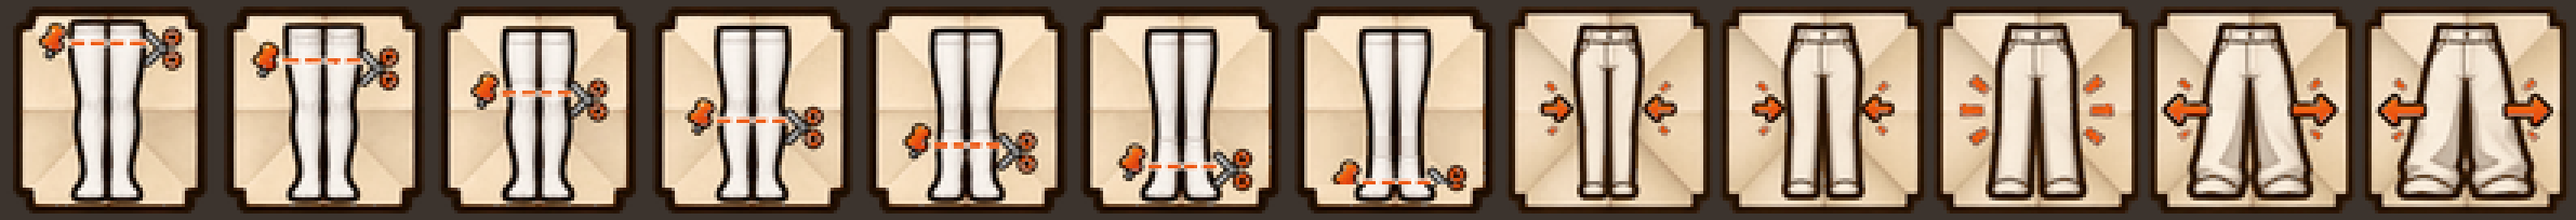
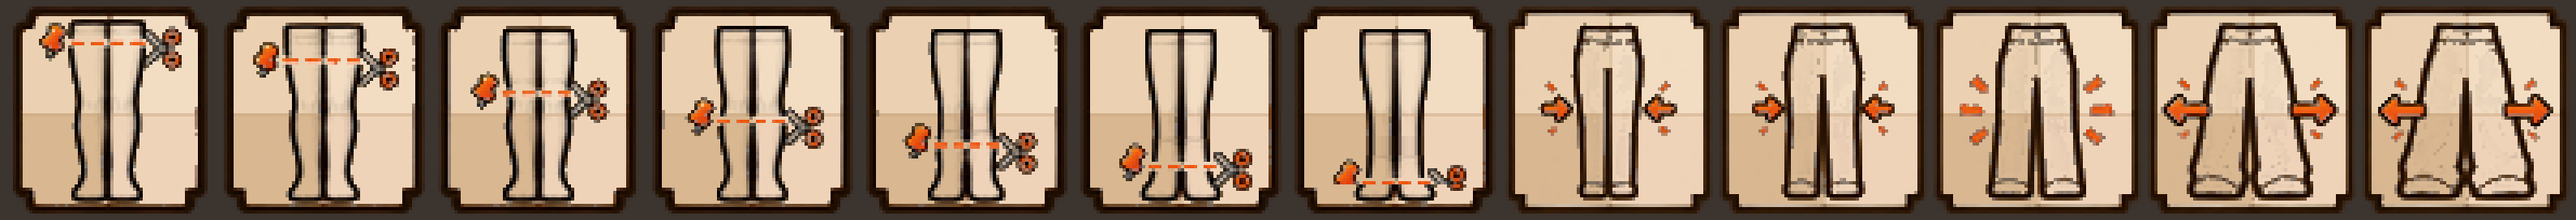
Íconos de rango y calce: papel doblado de cuatro zonas como los de corte de cuello
Claude-Session: https://claude.ai/code/session_014VeQUjMv7G1rcVBXsxCHBx

diff --git a/tools/ajustar_iconos_medias_pantalon.py b/tools/ajustar_iconos_medias_pantalon.py
@@ -8,6 +8,7 @@ Uso: python tools/ajustar_iconos_medias_pantalon.py            # vista previa en
 """
 import colorsys
 import os
+from collections import deque
 import shutil
 import sys
 
@@ -44,6 +45,47 @@ def entonar(img):
     return Image.fromarray(out.clip(0, 255).astype(np.uint8), "RGBA")
 
 
+# Papel doblado de los íconos de corte de cuello (2026-10-05, "el estilo con respecto al fondo y las cuatro areas
+# iluminadas que lo hacen parecer un papel doblado"): cuatro cuadrantes planos con distinta luz y dos pliegues en cruz.
+CUADRANTES = {(0, 0): (236, 210, 178), (1, 0): (243, 221, 195), (0, 1): (217, 184, 146), (1, 1): (240, 212, 186)}
+PLIEGUE = np.array([204, 170, 130])
+
+
+def cuadrante(x, y):
+    return CUADRANTES[(1 if x >= 32 else 0, 1 if y >= 33 else 0)]
+
+
+def papel_doblado(img, ref=None):
+    """Cambia el papel del fondo por los cuatro cuadrantes (y entona la tela con la misma luz)."""
+    a = np.array(img.convert("RGBA"))
+    rgb = a[..., :3].astype(int)
+    lum = rgb.sum(axis=2) / 3
+    # la clasificación mira el recorte original (antes de bajar la saturación): papel = tostado, tela = casi blanca
+    o = np.array((ref or img).convert("RGB")).astype(int)
+    nar = (o[..., 0] - o[..., 2] > 150) & (o[..., 1] < 160)
+    oscuro = (o.sum(axis=2) / 3) < 120
+    barrera = oscuro | nar
+    visto = (o[..., 0] - o[..., 2] > 62) & ~barrera
+    # el marco: franja de 3 px alrededor; ahí no se toca
+    marco = np.ones((64, 64), bool)
+    marco[3:61, 3:61] = False
+    out = a.copy()
+    for y in range(64):
+        for x in range(64):
+            if marco[y, x] or a[y, x, 3] < 8 or barrera[y, x]:
+                continue
+            base = np.array(cuadrante(x, y), float)
+            if visto[y, x]:
+                out[y, x, :3] = base
+            else:                                            # tela: conserva su sombreado sobre el color del cuadrante
+                out[y, x, :3] = np.clip(base * min(1.0, lum[y, x] / 236) * 1.0, 0, 255)
+    for x in range(3, 61):                                   # pliegues en cruz, sin pisar contornos ni naranja
+        for (px, py) in ((x, 33), (32, x)):
+            if not barrera[py, px] and not marco[py, px] and a[py, px, 3] >= 8:
+                out[py, px, :3] = (out[py, px, :3] * 0.55 + PLIEGUE * 0.45)
+    return Image.fromarray(out.clip(0, 255).astype(np.uint8), "RGBA")
+
+
 def fila_linea(img):
     a = np.array(img.convert("RGB")).astype(int)
     nar = (a[..., 0] - a[..., 2] > 170) & (a[..., 1] < 140) & (a[..., 0] > 200)
@@ -68,9 +110,12 @@ def maximo_desde(sexto, baja):
 
 
 def main():
-    rangos = [entonar(Image.open(os.path.join(ORIGEN, f"rango_medias_{i}.png"))) for i in range(6)]
+    def listo(ruta):
+        original = Image.open(ruta)
+        return papel_doblado(entonar(original), original)
+    rangos = [listo(os.path.join(ORIGEN, f"rango_medias_{i}.png")) for i in range(6)]
     rangos.append(maximo_desde(rangos[5], 5))
-    calces = [entonar(Image.open(os.path.join(ORIGEN, f"calce_pantalon_{i}.png"))) for i in range(5)]
+    calces = [listo(os.path.join(ORIGEN, f"calce_pantalon_{i}.png")) for i in range(5)]
     E = 4
     todos = rangos + calces
     hoja = Image.new("RGB", (len(todos) * (64 * E + 8) + 8, 64 * E + 16), (60, 52, 46))

diff --git a/CLAUDE.md b/CLAUDE.md
@@ -122,7 +122,7 @@ La descripción completa de mecánicas, comandos y recetas está en [docs/manual
 
 **Íconos del calce** (2026-10-04, "El calce"): los 5 `molde_calce_{pegado,ajustado,normal,suelto,oversize}.png` son de la imagen del usuario (remera con flechas hacia adentro/afuera; recortados a 64x64 con LANCZOS, originales en `assets_nuevos_prueba/calce/`; los anteriores en `assets_viejos/molde_calce_2026-10-04/`). El orden va de más pegado a más holgado, como el enum `Calce`.
 
-**Íconos de rango y calce nuevos** (2026-10-05, "nuevos iconos para calce y rango... que se vean mas como los de remera" → "que reemplacen, los de remera que me gustan son los de corte de cuello"): `molde_rango_*` ahora son medias con línea de corte (6 del usuario + el séptimo, máximo, armado bajando la línea del sexto) y `molde_calce_*` pantalones con flechas, entonados al estilo de los íconos de corte de cuello por `tools/ajustar_iconos_medias_pantalon.py` (originales recortados en `assets_nuevos_prueba/medias_pantalon/`, los reemplazados en `assets_viejos/iconos_medias_pantalon_2026-10-05/`). Nombres de rango corregidos: CERO = "Más Alto/Highest" (línea arriba de todo) … MAXIMO = "Más Bajo/Lowest".
+**Íconos de rango y calce nuevos** (2026-10-05, "nuevos iconos para calce y rango... que se vean mas como los de remera" → "que reemplacen, los de remera que me gustan son los de corte de cuello"): `molde_rango_*` ahora son medias con línea de corte (6 del usuario + el séptimo, máximo, armado bajando la línea del sexto) y `molde_calce_*` pantalones con flechas, entonados al estilo de los íconos de corte de cuello (naranja quemado y, 2026-10-05, "el estilo con respecto al fondo y las cuatro areas iluminadas que lo hacen parecer un papel doblado": el papel se reemplaza por cuatro cuadrantes planos con pliegues en cruz, `papel_doblado`) por `tools/ajustar_iconos_medias_pantalon.py` (originales recortados en `assets_nuevos_prueba/medias_pantalon/`, los reemplazados en `assets_viejos/iconos_medias_pantalon_2026-10-05/`). Nombres de rango corregidos: CERO = "Más Alto/Highest" (línea arriba de todo) … MAXIMO = "Más Bajo/Lowest".
 
 **Peso del jar** (2026-10-04, "q es lo q mas pesa... dale reduzcamos"): los 6 `textures/gui/container/esquema_*.png` pesaban 14 MB de 17; ahora están a 960 px de ancho y paleta de 256 colores (~2,4 MB, jar de 5,7 MB). El código los dibuja escalados a 240x136 con `drawTexture`, así que cualquier resolución sirve. Los originales (1672x941, RGB) quedan en `assets_viejos/esquemas_2026-10-04/` (fuera del jar).
 
